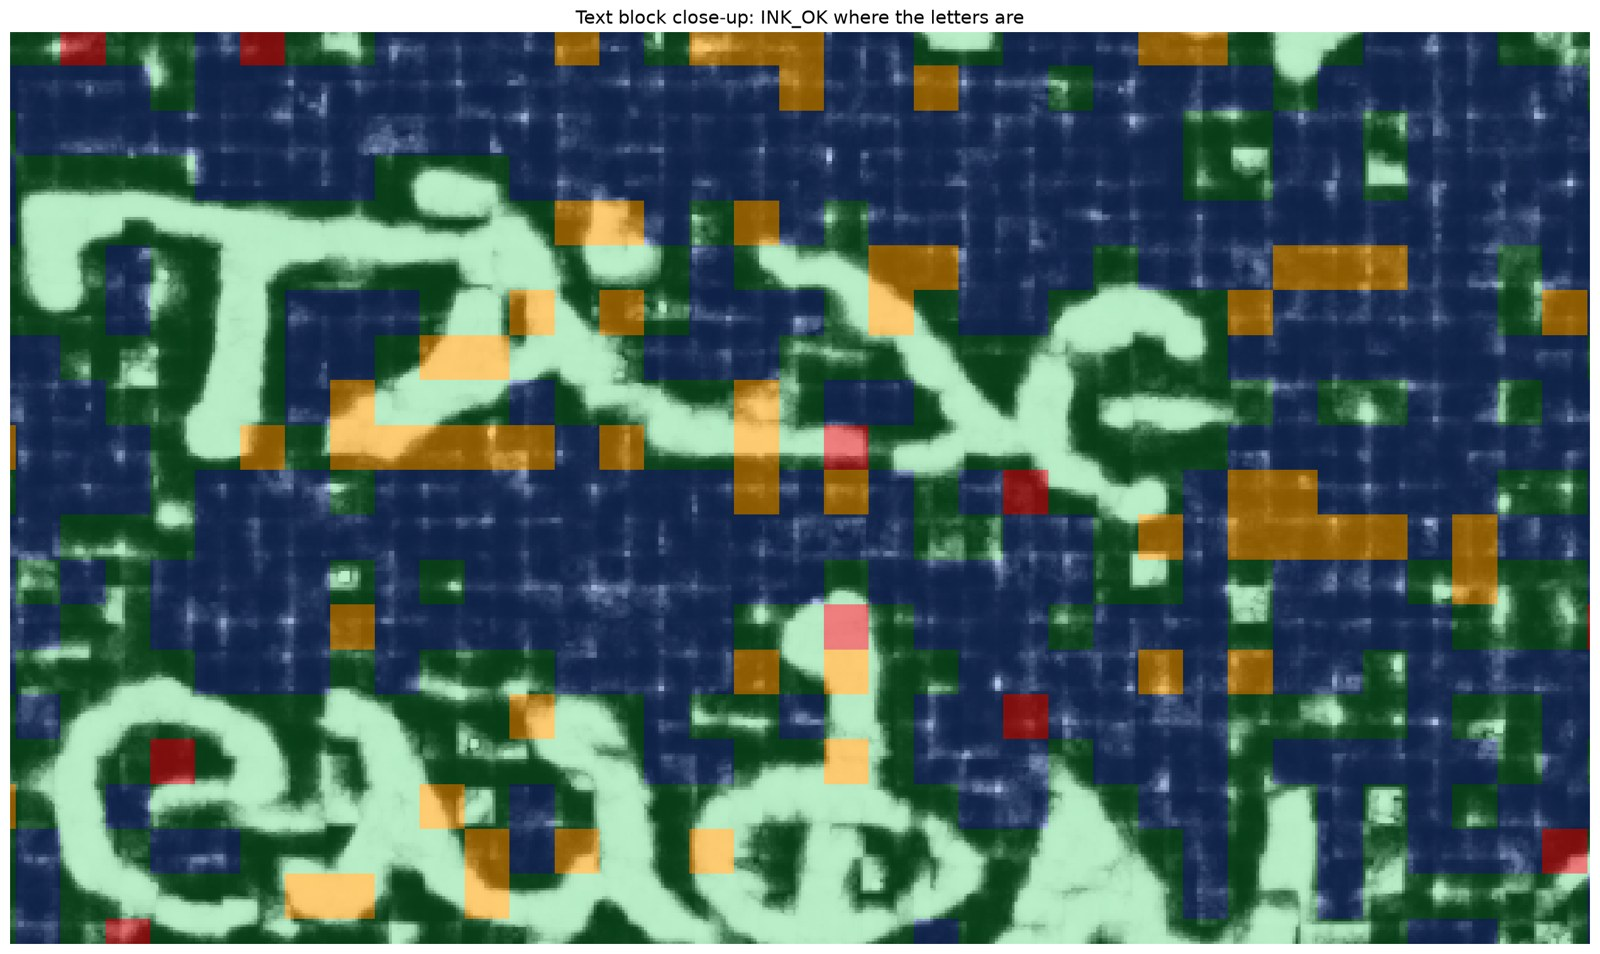
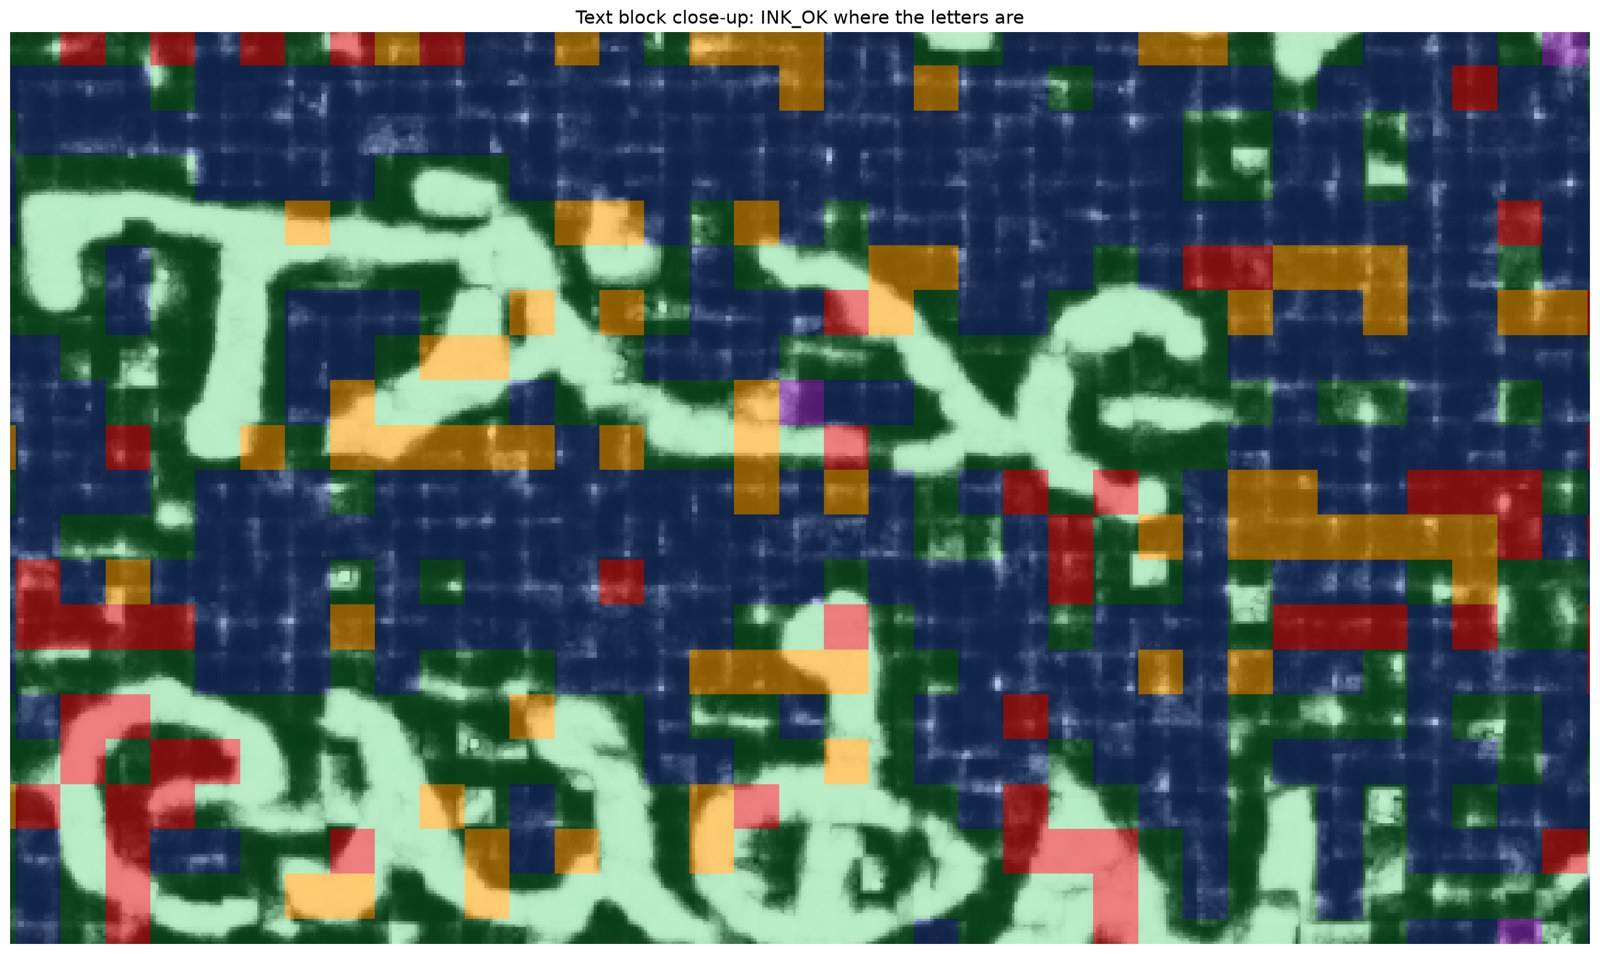
Real-data attribution matrix: 100/94/81% diagonal; calibration fixes it forced
Three principled fixes found by running induced failures on real data:
(1) surface-profile stats now fit only on INK_OK tiles (blank tiles'
peak positions are noise and inflated healthy spread until real drift
looked normal); (2) peak_offset/com_offset get a 'center' orientation —
the sheet body healthily sits ~8 layers off the recto mesh, so deviation
from the healthy median is what's bad, not magnitude; (3) confusion
full-scale 0.3 -> 0.125, calibrated against real distributions (healthy
p95 0.05, undertrained-model median 0.19, phantom-confused 0.7).

Matrix on real data: noise -> 100% SCAN, 8-vox mesh offset (raw Scroll 1
crop) -> 94% SURFACE, 2k-iter checkpoint -> 81% MODEL. Documented
limitation: resampled surface volumes blur sheets to ~27 vox FWHM, so
small offsets there hide in natural variation; the surface stage runs at
full precision against raw volumes (MAD 0.0 vox on Scroll 1).

diff --git a/src/inkdx/calibration.py b/src/inkdx/calibration.py
@@ -18,18 +18,30 @@ import numpy as np
 _EPS = 1e-6
 
 # +1: higher is healthier. -1: higher is worse. "abs": magnitude is what's bad.
+# "center": deviation from the healthy median in EITHER direction is bad — for
+# metrics with a legitimate systematic value (e.g. peak_offset: the mesh traces
+# the recto surface, so the sheet body healthily sits several voxels off).
 ORIENTATION: dict[str, int | str] = {
     "cnr": +1, "snr": +1, "dynamic_range": +1,
     "noise_sigma": -1, "haze_index": -1, "saturation_frac": -1,
     "intensity_drift": "abs",
-    "peak_offset": "abs", "peak_prominence": +1, "peak_multiplicity": -1,
-    "com_offset": "abs", "com_smoothness": -1,
+    "peak_offset": "center", "peak_prominence": +1, "peak_multiplicity": -1,
+    "com_offset": "center", "com_smoothness": -1,
     "grid_tearing": -1, "normal_coherence": +1, "stretch_anomaly": -1,
     "hole_fraction": -1,
     "mean_prob": +1, "p95_prob": +1, "ink_frac": +1,
     "entropy": -1, "indecision_mass": -1, "prob_separation": +1,
     "confusion_index": -1, "pred_coverage": +1,
 }
+
+
+# Surface-profile metrics are only meaningful where a sheet is provably
+# present: on blank tiles the profile peak is noise, and fitting on them
+# inflates the healthy spread until real drift looks normal (found on the
+# first real-segment ablation). Fit these on the strict selection.
+STRICT_SELECT_METRICS = frozenset(
+    {"peak_offset", "peak_prominence", "peak_multiplicity", "com_offset", "com_smoothness"}
+)
 
 
 @dataclass
@@ -46,17 +58,24 @@ class CalibrationPack:
         *,
         name: str,
         select: np.ndarray | None = None,
+        strict_select: np.ndarray | None = None,
         meta: dict | None = None,
     ) -> CalibrationPack:
         """Fit healthy distributions from a control run's tile maps.
 
         `select` restricts fitting to known-healthy tiles (bool tile map).
+        `strict_select` further restricts STRICT_SELECT_METRICS (surface
+        profile metrics) to tiles where a sheet is provably present — pass the
+        INK_OK mask of the control run.
         """
         stats: dict[str, dict[str, float]] = {}
         for k, m in maps.items():
             if k not in ORIENTATION:
                 continue
-            vals = m[select] if select is not None else m
+            sel = select
+            if k in STRICT_SELECT_METRICS and strict_select is not None:
+                sel = strict_select
+            vals = m[sel] if sel is not None else m
             if ORIENTATION[k] == "abs":
                 vals = np.abs(vals)
             vals = vals[np.isfinite(vals)]
@@ -80,7 +99,9 @@ class CalibrationPack:
         # MAD) must not turn ordinary variation into huge z-scores.
         scale = max(1.4826 * s["mad"], 0.05 * abs(s["median"]), _EPS)
         z = (v - s["median"]) / scale
-        if orient == -1 or orient == "abs":
+        if orient == "center":
+            z = -np.abs(z)
+        elif orient == -1 or orient == "abs":
             z = -z
         return z.astype(np.float32)
 

diff --git a/src/inkdx/verdict.py b/src/inkdx/verdict.py
@@ -37,8 +37,11 @@ STAGE_CORES: dict[str, tuple[str, ...]] = {
 # legitimate mid-probabilities — a base-rate trap found on the first real w00
 # run). confusion_index (= indecision * (1 - separation)) is ~0 for both text
 # and blank tiles and rises only for mid-gray mush; this value maps it to a
-# score of 0 (0.3 = fully confused).
-CONFUSION_FULL_SCALE = 0.3
+# score of 0. Scale calibrated on real data: healthy w00 tiles sit at p95 ~=
+# 0.05, an undertrained (2k-iter) model at median ~= 0.19, a fully confused
+# phantom at ~0.7 — 0.125 puts the default gate (tau=0.2) at CI > 0.1, 2x the
+# real healthy p95.
+CONFUSION_FULL_SCALE = 0.125
 
 
 @dataclass

diff --git a/docs/attribution.md b/docs/attribution.md
@@ -62,9 +62,24 @@ Two levels, both in CI:
    volume with analytic ground truth. Noise / blur / mesh-offset / confused-
    probability / blank / hole ablations must each land ≥80% of affected tiles
    in exactly their own verdict class, with off-diagonal leakage <10%.
-2. **Real-segment ablations** (w00_20231016151002, PHerc. Paris 4): controlled
-   degradations of a window with known-recovered ink — noise added to the
-   surface volume (scan arm), a 12-layer z-roll so the sheet sits at the wrong
-   depth (surface arm), and an undertrained 2k-iteration checkpoint (model
-   arm) — re-inferenced and re-diagnosed. The resulting attribution matrix is
-   published in the README.
+2. **Real-data ablations**: controlled failures induced on real data with
+   known-recovered ink, re-inferenced (A100) and re-diagnosed:
+
+   | induced failure | attributed to | result |
+   |---|---|---|
+   | — (control, text window of w00) | healthy | **82%** healthy (10% scan-, 7% surface-suspect: real marginal regions) |
+   | Gaussian noise σ=25 on the volume | SCAN | **100%** SCAN_SUSPECT |
+   | mesh offset +8 vox (raw Scroll 1 crop + ridge-tracked mesh) | SURFACE | **94%** SURFACE_SUSPECT (its control: 94% healthy) |
+   | undertrained 2k-iter checkpoint on clean data | MODEL | **81%** MODEL_SUSPECT |
+
+   ![attribution matrix](images/attribution_matrix.png)
+
+   **Documented limitation:** on *resampled surface volumes* the sheet is
+   blurred to ~27 voxels FWHM and tile-level peak offsets naturally vary by
+   ±10, so a 12-layer z-roll stays within healthy variation there (a 12-layer
+   roll flipped only ~4% of tiles). The surface stage operates at full
+   precision against the raw scroll volume (clean-mesh peak offsets recovered
+   at MAD 0.0 voxels on Scroll 1) — which is where mesh QC actually happens.
+   Three of the calibration/gating rules above (percentile gap, strict-select
+   fitting, "center" orientation for peak_offset) were found by exactly these
+   real-data runs, not by the phantom.

diff --git a/README.md b/README.md
@@ -64,16 +64,23 @@ with z-score evidence — built to be consumed by other tools.
 `report.html` is a single self-contained file: verdict overlay on the
 prediction, per-stage heatmaps, healthy-band histograms, region drill-downs.
 
-## Validation
+## Validation: the attribution matrix
 
-Every metric is unit-tested against a synthetic phantom with analytic ground
-truth (injected mesh offsets recovered to ±0.5 voxel, noise σ recovered from
-raw voxels, monotonicity under ablation strength). The verdict logic is tested
-as an **attribution matrix**: controlled scan / surface / model failures must
-each land in their own verdict class. See
-[docs/attribution.md](docs/attribution.md) for the causal-gating design and
-the real-segment ablation results, and [docs/metrics.md](docs/metrics.md) for
-every formula.
+Controlled failures induced on **real data** with known-recovered ink, then
+re-inferenced and re-diagnosed — each must land in its own verdict class:
+
+![attribution matrix](docs/images/attribution_matrix.png)
+
+Noise → 100% SCAN_SUSPECT. An 8-voxel mesh offset → 94% SURFACE_SUSPECT. An
+undertrained model on clean data → 81% MODEL_SUSPECT. Off-diagonal leakage
+stays at the control's own background level.
+
+Underneath, every metric is unit-tested against a synthetic phantom with
+analytic ground truth (injected mesh offsets recovered to ±0.5 voxel, noise σ
+recovered from raw voxels, monotonicity under ablation strength). See
+[docs/attribution.md](docs/attribution.md) for the causal-gating design,
+limitations, and full ablation results, and [docs/metrics.md](docs/metrics.md)
+for every formula.
 
 ## Status
 